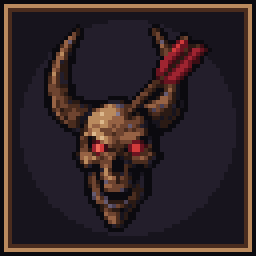
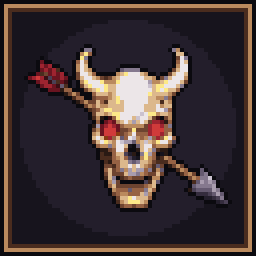
fix: elite_hunter 업적 아이콘을 화살이 꿰뚫은 뼈색 해골로 다시 생성
디자인 재검수 반영: 깃·화살대·살촉이 모두 보이는 화살과 밝은 뼈색 해골(붉은 눈·뿔 유지).
다른 13개 아이콘은 바뀌지 않음.

Changed region(s): [[0.0938, 0.0938, 0.9062, 0.9062]]

diff --git a/store/achievements/README.md b/store/achievements/README.md
@@ -21,7 +21,7 @@ Steam API 이름은 ID를 대문자로 바꾼 것입니다(`steam/README.md`).
 | `legendary` (LEGENDARY) | Relic Seeker / 유물 사냥꾼 | 전설 축복 획득 | 보라 보석 박힌 황금 유물 | `legendary.png`, `legendary_locked.png` |
 | `hoarder` (HOARDER) | Hoarder / 수집가 | 금화 150개를 한 번에 보유 | 주머니에서 쏟아지는 금화 | `hoarder.png`, `hoarder_locked.png` |
 | `slayer` (SLAYER) | Slayer / 학살자 | 누적 1000마리 처치 | 해골 더미와 검 | `slayer.png`, `slayer_locked.png` |
-| `elite_hunter` (ELITE_HUNTER) | Elite Hunter / 엘리트 사냥꾼 | 누적 엘리트 50마리 처치 | 붉은 깃 쇠뇌 화살이 박힌 뿔 달린 해골 | `elite_hunter.png`, `elite_hunter_locked.png` |
+| `elite_hunter` (ELITE_HUNTER) | Elite Hunter / 엘리트 사냥꾼 | 누적 엘리트 50마리 처치 | 화살이 대각선으로 꿰뚫은 뿔 달린 뼈색 해골(붉은 눈) | `elite_hunter.png`, `elite_hunter_locked.png` |
 | `swift_vigil` (SWIFT_VIGIL) | Swift Vigil / 재빠른 불침번 | 18분 안에 승리 | 불꽃 얹힌 모래시계 | `swift_vigil.png`, `swift_vigil_locked.png` |
 | `devoted` (DEVOTED) | Devoted / 헌신 | 잿불 제단 강화 합계 5단계 | 잿불이 타는 돌 제단 | `devoted.png`, `devoted_locked.png` |
 | `dasher` (DASHER) | Restless / 쉴 새 없이 | 누적 대시 500회 | 뒤꿈치에서 속도선이 뻗는 날개 달린 가죽 장화 | `dasher.png`, `dasher_locked.png` |
